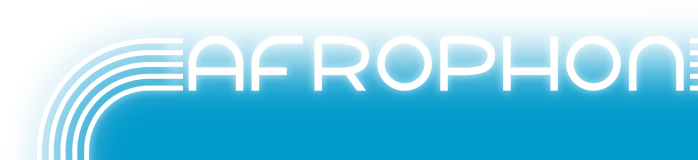
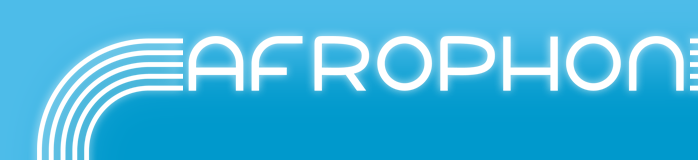
afrophon

diff --git a/public/stylesheets/style.css b/public/stylesheets/style.css
@@ -96,14 +96,15 @@ body {
 	position: absolute;
 	right:-1px;bottom:0;
 	background:url(../images/bgsmall.png) no-repeat !important;
+	background: transparent;
 	width:160px;
 	height:160px;
 	-moz-transform: scale(-1, -1);
     -o-transform: scale(-1, -1);
     -webkit-transform: scale(-1, -1);
     transform: scale(-1, -1);
-    filter: FlipV;
-    -ms-filter: "FlipV";
+    filter: FlipV FlipH;
+    -ms-filter: "FlipV" "FlipH";
     z-index: 4;
 }
 .bg-turnright-bottom {
@@ -118,6 +119,7 @@ body {
 	position: absolute;
 	left:0.2px;bottom:0;
 	background:url(../images/bgsmall.png) no-repeat !important;
+	background: transparent;
 	width:160px;
 	height:160px;
 	-moz-transform: scaleY(-1);
@@ -140,6 +142,7 @@ body {
 	position: absolute;
 	top:0;left:698px;
 	background: url(../images/over.png) repeat-x;
+	background: transparent;
 	height: 160px;
 	width:100%;
 	z-index: 2;
